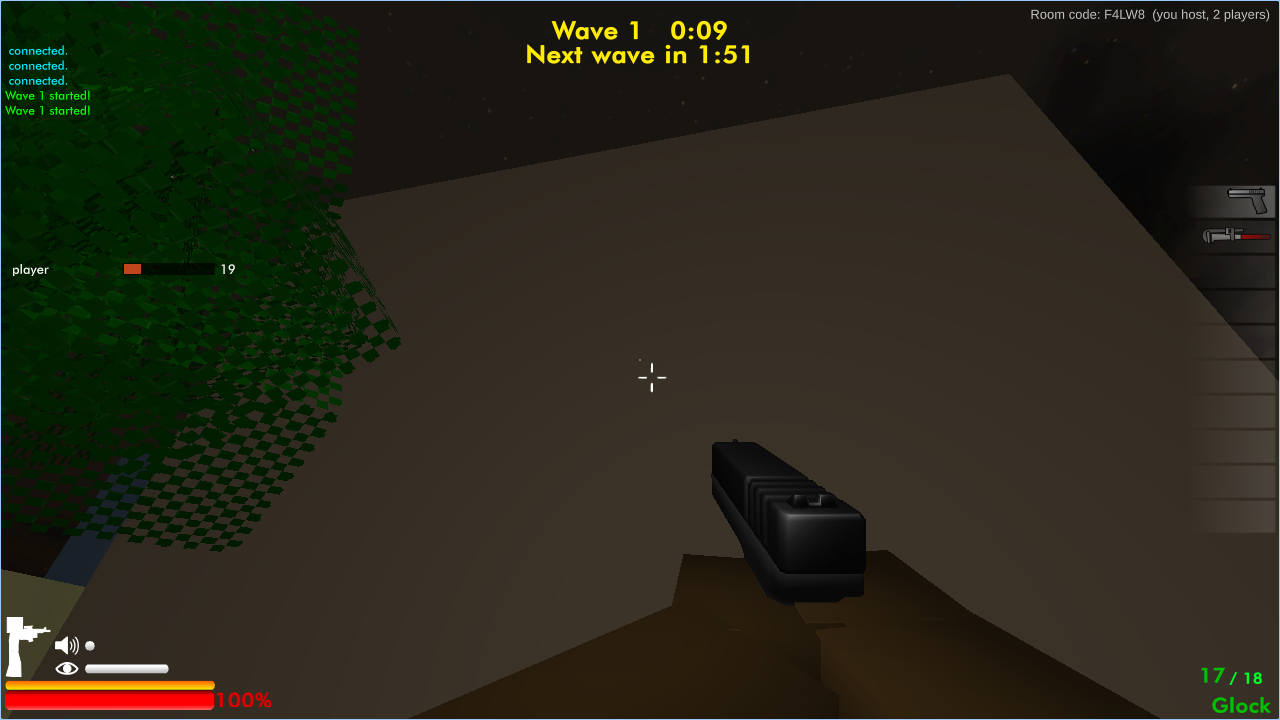
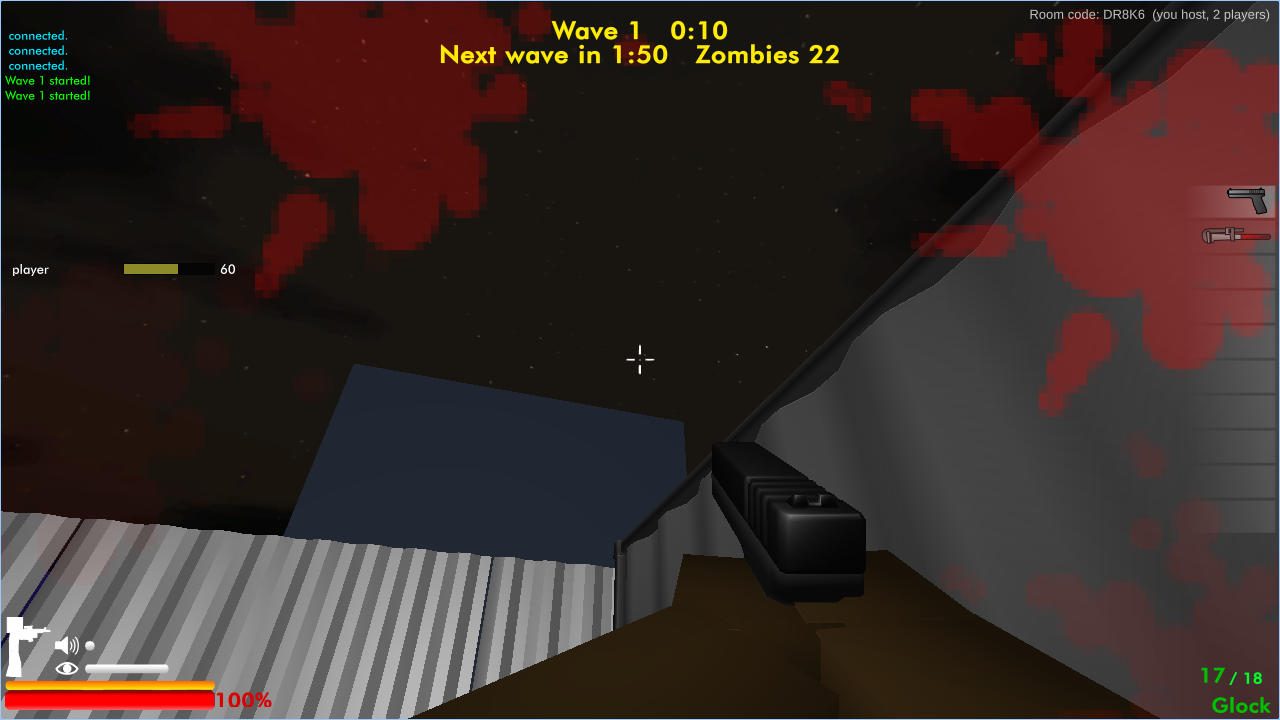
Timed waves: zombies pile up instead of being dropped (backlog), ceiling 300, fps guard
- Zombies over the alive cap wait in a host backlog (wave number per zombie) and spawn
  4/s with their own wave's stats when there is room; a wave is not cleared while
  zombies are queued. Classic unchanged (cap 50, rest dropped).
- Crash-guard ceiling 300 alive (measured host + client with fps.mjs), host frame rate
  guard: below 25 fps for 3 s pauses spawning above 50 alive, nothing lost.
- HUD "Zombies 64 (+20)" next to the wave timer (synczombies RPC).
- Relay host message budget 3000/s -> 15000/s (a relay-only client overran it at ~130
  zombies); outgoing frames also split at 400 messages.
- fps.mjs measures host + client fps and traffic; playtest.mjs backlog checks; docs.

diff --git a/server/src/room.js b/server/src/room.js
@@ -39,8 +39,10 @@ const MAX_FRAME = 65536;
 // body length of the compact state messages by kind (C_STATE: op, kind, view i64, payload)
 const STATE_LEN = { 1: 24, 2: 38, 3: 22 };
 const MAX_MSGS_PER_FRAME = 512;
-// per socket message budget (messages per second, burst = 2 s): the host sends hundreds a second at 20 Hz state, a client far fewer
-const MSG_RATE_HOST = 3000, MSG_RATE_CLIENT = 600;
+// per socket message budget (messages per second, burst = 2 s): the host sends about 20 a second per zombie alive at 20 Hz state when a client
+// has no WebRTC lane (300 zombies: ~6500/s, measured with server/test/e2e/fps.mjs ?p2p=0), a client far fewer. Frames (what the Durable Object
+// is billed for) stay at ~20-60 a second whatever the count: the messages are batched per game frame.
+const MSG_RATE_HOST = 15000, MSG_RATE_CLIENT = 600;
 const MAX_BUFFER_ENTRIES = 20000;
 const MAX_BUFFER_PER_SENDER = 8000;
 const MAX_BUFFER_BYTES = 4 * 1024 * 1024;

diff --git a/game/Assets/Scripts/Assembly-UnityScript/sc_matchcontroller.cs b/game/Assets/Scripts/Assembly-UnityScript/sc_matchcontroller.cs
@@ -108,6 +108,12 @@ public class sc_matchcontroller : MonoBehaviour
 
 	public Transform[] contructions;
 
+	// playtest feature (Timed waves): zombies of a wave that could not spawn yet (cap on zombies alive, or the frame rate guard), as the wave
+	// number each one belongs to, oldest first. Host only (the matchcontroller exists on the host alone). Classic never uses it.
+	public System.Collections.Generic.Queue<int> zbacklog = new System.Collections.Generic.Queue<int>();
+
+	public float zbacklogcont;
+
 	public sc_matchcontroller()
 	{
 		secstoincrease = 30;
@@ -376,6 +382,7 @@ public class sc_matchcontroller : MonoBehaviour
 
 	public void Start()
 	{
+		ZbMenu.GuardReset();
 		zspawnpoints = GameObject.FindGameObjectsWithTag("zombiespawn");
 		itemspawnpoints = GameObject.FindGameObjectsWithTag("itemspawn");
 		bagspawnpoints = GameObject.FindGameObjectsWithTag("bagspawn");
@@ -526,15 +533,21 @@ public class sc_matchcontroller : MonoBehaviour
 			// Timed waves (playtest feature, default; ZbMenu.TimedWaves()): the 120 s "long wave" timer of the original is armed for EVERY wave.
 			// The original arms it only if the previous wave was cleared (canlongwave) and disarms it after a timed-out wave. Classic = exactly that.
 			bool timedwaves = ZbMenu.TimedWaves();
+			if (timedwaves)
+			{
+				ZbMenu.GuardTick(Time.unscaledDeltaTime); // frame rate guard for zombie spawning (Timed waves only)
+			}
 			if (canlongwave || timedwaves)
 			{
 				longwaveconter += 1f * Time.deltaTime;
 			}
 			((sc_matchdata)(object)((Component)matchdata).GetComponent(typeof(sc_matchdata))).waveleft = timedwaves ? Mathf.Max(0, Mathf.CeilToInt(120f - longwaveconter)) : (-1);
 			zspawncont += 1f * Time.deltaTime;
-			if (zsinscene.Length <= 3 || !(longwaveconter <= 120f))
+			// Timed waves: a wave is only "cleared" when the backlog is empty too (zombies still queued count as zombies left)
+			int zleft = zsinscene.Length + (timedwaves ? zbacklog.Count : 0);
+			if (zleft <= 3 || !(longwaveconter <= 120f))
 			{
-				if (zsinscene.Length <= 3)
+				if (zleft <= 3)
 				{
 					canlongwave = true;
 				}
@@ -556,41 +569,50 @@ public class sc_matchcontroller : MonoBehaviour
 				}
 				int zcount = ZbMenu.WaveZombies(zminforwave + (wave - 1), ZbMenu.Players()); // Timed waves: scaled with the players in the match (Classic: unchanged)
 				int zcap = ZbMenu.ZombieCap(zsmax, ZbMenu.Players());
+				int zalive = zsinscene.Length;
 				for (num6 = 0; num6 < zcount; num6++)
 				{
-					if (zsinscene.Length < zcap)
+					if (zalive < zcap && (!timedwaves || (zbacklog.Count == 0 && !ZbMenu.SpawnBlocked(zalive))))
 					{
-						if (zspawnpoints.Length > 0)
-						{
-							num = Random.Range(0, zspawnpoints.Length);
-						}
-						num4 = zspawnpoints[num].transform.position.x + Random.Range(0f - zspawnpoints[num].transform.localScale.x / 2f, zspawnpoints[num].transform.localScale.x / 2f);
-						num5 = zspawnpoints[num].transform.position.z + Random.Range(0f - zspawnpoints[num].transform.localScale.z / 2f, zspawnpoints[num].transform.localScale.z / 2f);
-						val = (Transform)Network.Instantiate((Object)(object)zumbifab, new Vector3(num4, zspawnpoints[num].transform.position.y + 1.28f, num5), zumbifab.rotation, 5);
-						((Component)val).GetComponent<Rigidbody>().isKinematic = false;
-						((Behaviour)(sc_zumbionlinecontroller)(object)((Component)val).GetComponent(typeof(sc_zumbionlinecontroller))).enabled = false;
-						((Behaviour)(sc_zumbi)(object)((Component)val).GetComponent(typeof(sc_zumbi))).enabled = true;
-						((sc_zumbi)(object)((Component)val).GetComponent(typeof(sc_zumbi))).gamecontrol = gamecontrol;
-						((sc_zumbi)(object)((Component)val).GetComponent(typeof(sc_zumbi))).matchcontrol = ((Component)this).transform;
-						((sc_zumbi)(object)((Component)val).GetComponent(typeof(sc_zumbi))).headlife = ((sc_zumbi)(object)((Component)val).GetComponent(typeof(sc_zumbi))).headlife + (float)(4 * (wave - 1));
-						((sc_life)(object)((Component)val).GetComponent(typeof(sc_life))).quantia = ((sc_life)(object)((Component)val).GetComponent(typeof(sc_life))).quantia + (float)(10 * (wave - 1));
-						((sc_zumbi)(object)((Component)val).GetComponent(typeof(sc_zumbi))).dmgmin = ((sc_zumbi)(object)((Component)val).GetComponent(typeof(sc_zumbi))).dmgmin + 0.5f * (float)(wave - 1);
-						((sc_zumbi)(object)((Component)val).GetComponent(typeof(sc_zumbi))).dmgmax = ((sc_zumbi)(object)((Component)val).GetComponent(typeof(sc_zumbi))).dmgmax + 0.5f * (float)(wave - 1);
-						((sc_zumbi)(object)((Component)val).GetComponent(typeof(sc_zumbi))).walkspeed = ((sc_zumbi)(object)((Component)val).GetComponent(typeof(sc_zumbi))).walkspeed + 0.06f * (float)(wave - 1);
-						if (!(((sc_zumbi)(object)((Component)val).GetComponent(typeof(sc_zumbi))).walkspeed <= 6f))
-						{
-							((sc_zumbi)(object)((Component)val).GetComponent(typeof(sc_zumbi))).walkspeed = 6f;
-						}
-						num2 = Random.Range(0, backpackprobmax);
-						if (num2 < backpackprobmin)
-						{
-							((sc_zumbi)(object)((Component)val).GetComponent(typeof(sc_zumbi))).carryitem = true;
-						}
-						Network.Instantiate((Object)(object)terra, new Vector3(val.position.x, val.position.y - 1.75f, val.position.z), val.rotation, 4);
-						zspawncont = 0f;
-						zsinscene = GameObject.FindGameObjectsWithTag("zumbi");
+						spawnzombie(wave);
+						zalive++;
+					}
+					else if (timedwaves)
+					{
+						zbacklog.Enqueue(wave); // Timed waves: never dropped, spawns later with this wave's stats (Classic: dropped, as the original)
 					}
 				}
+				zsinscene = GameObject.FindGameObjectsWithTag("zumbi");
+			}
+			// Timed waves: the backlog spawns ZBACKLOG_RATE zombies per second while there is room under the cap and the host's frame rate guard allows it
+			if (timedwaves && zbacklog.Count > 0)
+			{
+				zbacklogcont += Time.deltaTime * ZbMenu.ZBACKLOG_RATE;
+				int zcap2 = ZbMenu.ZombieCap(zsmax, ZbMenu.Players());
+				int zalive2 = zsinscene.Length;
+				bool spawned = false;
+				while (zbacklogcont >= 1f && zbacklog.Count > 0 && zalive2 < zcap2 && !ZbMenu.SpawnBlocked(zalive2))
+				{
+					zbacklogcont -= 1f;
+					spawnzombie(zbacklog.Dequeue());
+					zalive2++;
+					spawned = true;
+				}
+				if (zbacklogcont > 1f) zbacklogcont = 1f; // no burst after a pause
+				if (spawned) zsinscene = GameObject.FindGameObjectsWithTag("zumbi");
+			}
+			else
+			{
+				zbacklogcont = 0f;
+			}
+			if (timedwaves)
+			{
+				((sc_matchdata)(object)((Component)matchdata).GetComponent(typeof(sc_matchdata))).zalive = zsinscene.Length;
+				((sc_matchdata)(object)((Component)matchdata).GetComponent(typeof(sc_matchdata))).zqueued = zbacklog.Count;
+			}
+			else
+			{
+				((sc_matchdata)(object)((Component)matchdata).GetComponent(typeof(sc_matchdata))).zqueued = -1;
 			}
 			if (!gameended)
 			{
@@ -658,6 +680,45 @@ public class sc_matchcontroller : MonoBehaviour
 		((sc_matchdata)(object)((Component)matchdata).GetComponent(typeof(sc_matchdata))).minutes = minute;
 		((sc_matchdata)(object)((Component)matchdata).GetComponent(typeof(sc_matchdata))).seconds = second;
 		((sc_matchdata)(object)((Component)matchdata).GetComponent(typeof(sc_matchdata))).isstarted = gamestarted;
+	}
+
+	// One zombie at a random zombie spawn point with the stats of wave `zwave` (the original's per-wave hp / damage / speed). Timed waves call it
+	// later for backlog zombies with the wave they belonged to; the body is the original's wave-start spawn code unchanged.
+	public void spawnzombie(int zwave)
+	{
+		int num = 0;
+		int num2 = 0;
+		float num4 = 0f;
+		float num5 = 0f;
+		Transform val = null;
+		if (zspawnpoints.Length > 0)
+		{
+			num = Random.Range(0, zspawnpoints.Length);
+		}
+		num4 = zspawnpoints[num].transform.position.x + Random.Range(0f - zspawnpoints[num].transform.localScale.x / 2f, zspawnpoints[num].transform.localScale.x / 2f);
+		num5 = zspawnpoints[num].transform.position.z + Random.Range(0f - zspawnpoints[num].transform.localScale.z / 2f, zspawnpoints[num].transform.localScale.z / 2f);
+		val = (Transform)Network.Instantiate((Object)(object)zumbifab, new Vector3(num4, zspawnpoints[num].transform.position.y + 1.28f, num5), zumbifab.rotation, 5);
+		((Component)val).GetComponent<Rigidbody>().isKinematic = false;
+		((Behaviour)(sc_zumbionlinecontroller)(object)((Component)val).GetComponent(typeof(sc_zumbionlinecontroller))).enabled = false;
+		((Behaviour)(sc_zumbi)(object)((Component)val).GetComponent(typeof(sc_zumbi))).enabled = true;
+		((sc_zumbi)(object)((Component)val).GetComponent(typeof(sc_zumbi))).gamecontrol = gamecontrol;
+		((sc_zumbi)(object)((Component)val).GetComponent(typeof(sc_zumbi))).matchcontrol = ((Component)this).transform;
+		((sc_zumbi)(object)((Component)val).GetComponent(typeof(sc_zumbi))).headlife = ((sc_zumbi)(object)((Component)val).GetComponent(typeof(sc_zumbi))).headlife + (float)(4 * (zwave - 1));
+		((sc_life)(object)((Component)val).GetComponent(typeof(sc_life))).quantia = ((sc_life)(object)((Component)val).GetComponent(typeof(sc_life))).quantia + (float)(10 * (zwave - 1));
+		((sc_zumbi)(object)((Component)val).GetComponent(typeof(sc_zumbi))).dmgmin = ((sc_zumbi)(object)((Component)val).GetComponent(typeof(sc_zumbi))).dmgmin + 0.5f * (float)(zwave - 1);
+		((sc_zumbi)(object)((Component)val).GetComponent(typeof(sc_zumbi))).dmgmax = ((sc_zumbi)(object)((Component)val).GetComponent(typeof(sc_zumbi))).dmgmax + 0.5f * (float)(zwave - 1);
+		((sc_zumbi)(object)((Component)val).GetComponent(typeof(sc_zumbi))).walkspeed = ((sc_zumbi)(object)((Component)val).GetComponent(typeof(sc_zumbi))).walkspeed + 0.06f * (float)(zwave - 1);
+		if (!(((sc_zumbi)(object)((Component)val).GetComponent(typeof(sc_zumbi))).walkspeed <= 6f))
+		{
+			((sc_zumbi)(object)((Component)val).GetComponent(typeof(sc_zumbi))).walkspeed = 6f;
+		}
+		num2 = Random.Range(0, backpackprobmax);
+		if (num2 < backpackprobmin)
+		{
+			((sc_zumbi)(object)((Component)val).GetComponent(typeof(sc_zumbi))).carryitem = true;
+		}
+		Network.Instantiate((Object)(object)terra, new Vector3(val.position.x, val.position.y - 1.75f, val.position.z), val.rotation, 4);
+		zspawncont = 0f;
 	}
 
 	public void Main()

diff --git a/game/Assets/Scripts/ZbNet.cs b/game/Assets/Scripts/ZbNet.cs
@@ -634,16 +634,16 @@ public static partial class ZbNet
     {
         FlushFast();
         if (outLen == 0 || ZbWs.State() != 2) return;
-        // chunk on message boundaries so one frame stays well under the relay's 64 KB limit
+        // chunk on message boundaries so one frame stays well under the relay's 64 KB and 512 messages limits (hundreds of zombies alive)
         int o = 0;
         while (o < outLen)
         {
-            int start = o;
+            int start = o, n = 0;
             while (o + 2 <= outLen)
             {
                 int len = outBuf[o] | (outBuf[o + 1] << 8);
-                if (o - start + 2 + len > 60000 && o > start) break;
-                o += 2 + len;
+                if ((o - start + 2 + len > 60000 || n >= 400) && o > start) break;
+                o += 2 + len; n++;
             }
             var chunk = new byte[o - start];
             Buffer.BlockCopy(outBuf, start, chunk, 0, chunk.Length);
@@ -1197,6 +1197,11 @@ public class NetRunner : MonoBehaviour
             foreach (var z in zs) if (z.state != -1) nd = Mathf.Min(nd, Vector3.Distance(z.transform.position, p.transform.position));
             if (nd < float.MaxValue) sb.Append(",\"zdist\":").Append(Mathf.Round(nd * 10f) / 10f);
         }
+        { // zombies by life (rounded), e.g. {"100":15,"110":16}: a zombie's life is the wave's (base + 10 per wave), so this shows the waves present
+            var hist = new System.Collections.Generic.SortedDictionary<int, int>();
+            foreach (var z in zs) { var lf = z.GetComponent<sc_life>(); if (lf != null && z.state != -1) { int k = Mathf.RoundToInt(lf.quantia); hist[k] = (hist.TryGetValue(k, out var c) ? c : 0) + 1; } }
+            sb.Append(",\"zhist\":{"); bool hf = true; foreach (var kv in hist) { sb.Append(hf ? "" : ",").Append("\"").Append(kv.Key).Append("\":").Append(kv.Value); hf = false; } sb.Append("}");
+        }
         if (minLife < float.MaxValue) sb.Append(",\"zlifeMin\":").Append(Mathf.Round(minLife)).Append(",\"zlifeMax\":").Append(Mathf.Round(maxLife));
         var md = FindFirstObjectByType<sc_matchdata>();
         sb.Append(",\"killed\":").Append(md != null ? md.zombieskilled : -1);
@@ -1209,6 +1214,12 @@ public class NetRunner : MonoBehaviour
         foreach (var p in players) { var nv = p.GetComponent<NetworkView>(); var lf = p.GetComponent<sc_life>(); if (nv != null && nv.isMine && lf != null) sb.Append(",\"hp\":").Append(Mathf.Round(lf.quantia)); }
         foreach (var p in players) { var nv = p.GetComponent<NetworkView>(); if (nv != null && nv.isMine && p.quant != null) sb.Append(",\"quant\":[").Append(string.Join(",", p.quant)).Append("],\"ammo\":[").Append(string.Join(",", p.ammo)).Append("],\"sel\":").Append(p.itemselected).Append(",\"lifes\":").Append(p.lifes); }
         { int k = -1; foreach (var sp in FindObjectsByType<sc_spawner>(FindObjectsSortMode.None)) { var snv = sp.GetComponent<NetworkView>(); if (snv != null && snv.isMine) k = sp.kills; } sb.Append(",\"kills\":").Append(k); }
+        if (mc != null) { // Timed waves backlog: queued zombies and the wave each belongs to (oldest first, at most 40 listed), cap, frame rate guard
+            sb.Append(",\"queued\":").Append(mc.zbacklog.Count).Append(",\"qwaves\":[");
+            int qi = 0; foreach (var qw in mc.zbacklog) { if (qi >= 40) break; sb.Append(qi > 0 ? "," : "").Append(qw); qi++; }
+            sb.Append("],\"zcap\":").Append(ZbMenu.ZombieCap(mc.zsmax, ZbMenu.Players())).Append(",\"guard\":").Append(ZbMenu.guardPaused ? 1 : 0).Append(",\"gfps\":").Append(Mathf.Round(ZbMenu.guardFps));
+        }
+        if (md != null) sb.Append(",\"mdalive\":").Append(md.zalive).Append(",\"mdqueued\":").Append(md.zqueued);
         if (mc != null) sb.Append(",\"started\":").Append(mc.gamestarted ? 1 : 0).Append(",\"min\":").Append(mc.minute).Append(",\"sec\":").Append(mc.second);
         sb.Append(",\"carry\":").Append(ZbCarry.Json());
         sb.Append("}");
@@ -1259,7 +1270,10 @@ public class NetRunner : MonoBehaviour
     // DebugGrab("grenadeground") picks up the nearest ground item whose name contains the text, like pressing E on it.
     public void DebugLoot(string a) { ZbMenu.MoreLoot(); ZbMenu.moreLoot = a != "classic"; }
     // DebugZmax("200") lifts the zombie cap of the running match (performance measurement only)
-    public void DebugZmax(string a) { var mc = FindFirstObjectByType<sc_matchcontroller>(); if (mc != null) mc.zsmax = int.Parse(a); }
+    // (Timed waves: the crash guard ceiling ZbMenu.zombieCeiling; Classic: the original zsmax). DebugZGuard("-1"|"0"|"1"): frame rate guard automatic /
+    // never pause / always pause (ZbMenu.guardForce).
+    public void DebugZmax(string a) { var mc = FindFirstObjectByType<sc_matchcontroller>(); if (mc != null) mc.zsmax = int.Parse(a); ZbMenu.zombieCeiling = int.Parse(a); }
+    public void DebugZGuard(string a) { ZbMenu.guardForce = int.Parse(a); if (ZbMenu.guardForce < 0) ZbMenu.guardPaused = false; }
     public void DebugLootNow(string a)
     {
         var mc = FindFirstObjectByType<sc_matchcontroller>(); if (mc == null) return;

diff --git a/game/Assets/Scripts/ZbMenu.cs b/game/Assets/Scripts/ZbMenu.cs
@@ -412,14 +412,41 @@ public static class ZbMenu
         }
     }
 
-    // Zombies per wave in Timed waves: (zminforwave + wave - 1) * (1 + 0.5 * (players - 1)), i.e. 1 player x1, 2 x1.5, 3 x2, 4 x2.5; the cap on zombies
-    // alive (original 50) grows by the same factor but never beyond ZOMBIE_CEILING. Per-zombie stats stay the original's. Classic: unchanged.
-    public const int ZOMBIE_CEILING = 80;
+    // Zombies per wave in Timed waves: (zminforwave + wave - 1) * (1 + 0.5 * (players - 1)), i.e. 1 player x1, 2 x1.5, 3 x2, 4 x2.5. Per-zombie stats
+    // stay the original's. Nothing is dropped: zombies that cannot spawn now (cap on zombies alive, or the frame rate guard) wait in the host's
+    // backlog (sc_matchcontroller.zbacklog, with their wave number) and spawn ZBACKLOG_RATE per second as soon as there is room. The cap on zombies
+    // alive is only a crash guard: zombieCeiling (ZOMBIE_CEILING, measured with server/test/e2e/fps.mjs, see docs/MULTIPLAYER.md). Classic: the
+    // original's 50 alive, the rest of a wave is dropped, no backlog.
+    public const int ZOMBIE_CEILING = 300;
+    public static int zombieCeiling = ZOMBIE_CEILING;     // DebugZmax overrides it (tests / measurements)
+    public const float ZBACKLOG_RATE = 4f;                // backlog zombies per second
     // human players connected to this match (the host's own `spawners` counter is one too high: the host's spawner is added twice)
     public static int Players() { return ZbNet.Connected ? ZbNet.remoteCount + 1 : 1; }
     public static float WaveFactor(int players) { return 1f + 0.5f * (Mathf.Max(1, players) - 1); }
     public static int WaveZombies(int basecount, int players) { return TimedWaves() ? Mathf.RoundToInt(basecount * WaveFactor(players)) : basecount; }
-    public static int ZombieCap(int orig, int players) { return TimedWaves() ? Mathf.Max(orig, Mathf.Min(ZOMBIE_CEILING, Mathf.RoundToInt(orig * WaveFactor(players)))) : orig; }
+    public static int ZombieCap(int orig, int players) { return TimedWaves() ? Mathf.Max(1, zombieCeiling) : orig; }
+
+    // Frame rate guard (Timed waves, host): when the host's frame rate stays below GUARD_LOW_FPS for GUARD_LOW_S seconds, no more zombies spawn
+    // (wave starts queue their zombies, the backlog waits) until it is back at GUARD_RESUME_FPS or more for GUARD_RESUME_S seconds. Nothing is lost.
+    public const float GUARD_LOW_FPS = 25f, GUARD_LOW_S = 3f, GUARD_RESUME_FPS = 30f, GUARD_RESUME_S = 2f;
+    public static bool guardPaused;
+    // the guard never holds back zombies while fewer than GUARD_MIN_ALIVE are alive (the original's 50): a slow PC still gets the original game
+    public const int GUARD_MIN_ALIVE = 50;
+    public static bool SpawnBlocked(int alive) { return guardPaused && alive >= GUARD_MIN_ALIVE; }
+    public static void GuardReset() { guardPaused = false; guardFps = 60f; guardLow = guardHigh = 0f; }
+    public static int guardForce = -1;                    // test hook DebugZGuard: -1 automatic, 0 never pause, 1 always pause
+    public static float guardFps = 60f;
+    static float guardLow, guardHigh;
+    public static void GuardTick(float dt)
+    {
+        if (dt > 0f)
+        {
+            guardFps += (Mathf.Min(1f / dt, 240f) - guardFps) * Mathf.Min(1f, dt * 2f); // about half a second of smoothing
+            if (!guardPaused) { guardLow = guardFps < GUARD_LOW_FPS ? guardLow + dt : 0f; if (guardLow >= GUARD_LOW_S) { guardPaused = true; guardHigh = 0f; Debug.Log("[zbguard] host fps " + Mathf.Round(guardFps) + ": zombie spawning paused"); } }
+            else { guardHigh = guardFps >= GUARD_RESUME_FPS ? guardHigh + dt : 0f; if (guardHigh >= GUARD_RESUME_S) { guardPaused = false; guardLow = 0f; Debug.Log("[zbguard] host fps " + Mathf.Round(guardFps) + ": zombie spawning resumed"); } }
+        }
+        if (guardForce >= 0) guardPaused = guardForce == 1;
+    }
 
     // ---- loot: More (default) / Classic (playtest feature) ---------------------------------------------------------------------------------
     // Classic: the original matchcontroller values, never touched (itemspawnrate 0.05 = one item / 20 s, ismax 20, 30 % real items, 2 % zombie backpacks).

diff --git a/game/Assets/Scripts/Assembly-UnityScript/sc_matchdata.cs b/game/Assets/Scripts/Assembly-UnityScript/sc_matchdata.cs
@@ -57,6 +57,11 @@ public class sc_matchdata : MonoBehaviour
 	// playtest features (not in v0.7): seconds until the next wave starts by itself (-1 = classic waves, no timer); set by the host, synced to everybody
 	public int waveleft = -1;
 
+	// playtest feature (Timed waves): zombies alive and queued in the host's backlog (HUD "Zombies 64 (+20)"); zqueued -1 = Classic / unknown
+	public int zalive;
+
+	public int zqueued = -1;
+
 	public sc_matchdata()
 	{
 		sendrate = 2f;
@@ -113,6 +118,10 @@ public class sc_matchdata : MonoBehaviour
 			{
 				((Component)this).NetView().RPC("sendstuff", (RPCMode)1, new object[5] { minutes, seconds, zombieskilled, isstarted, isended });
 				((Component)this).NetView().RPC("syncwavetimer", (RPCMode)1, new object[1] { waveleft });
+				if (zqueued >= 0)
+				{
+					((Component)this).NetView().RPC("synczombies", (RPCMode)1, new object[2] { zalive, zqueued });
+				}
 				dataconter -= 1000f;
 			}
 		}
@@ -160,7 +169,7 @@ public class sc_matchdata : MonoBehaviour
 		if (isstarted && waveleft > 0)
 		{
 			int wl = waveleft;
-			GUI.Label(new Rect((float)(Screen.width / 2 - 200), 34f, 400f, 40f), "Next wave in " + (wl / 60) + ":" + ((wl % 60 >= 10) ? (string.Empty + wl % 60) : ("0" + wl % 60)));
+			GUI.Label(new Rect((float)(Screen.width / 2 - 320), 34f, 640f, 40f), "Next wave in " + (wl / 60) + ":" + ((wl % 60 >= 10) ? (string.Empty + wl % 60) : ("0" + wl % 60)) + (zqueued >= 0 ? "   Zombies " + zalive + (zqueued > 0 ? " (+" + zqueued + ")" : string.Empty) : string.Empty));
 		}
 		GUI.skin = chatskin;
 		GUI.color = Color.white;
@@ -190,6 +199,13 @@ public class sc_matchdata : MonoBehaviour
 	public void syncwavetimer(int left)
 	{
 		waveleft = left;
+	}
+
+	[RPC]
+	public void synczombies(int alive, int queued)
+	{
+		zalive = alive;
+		zqueued = queued;
 	}
 
 	// playtest feature: every player sends its own health (the owner knows it best); ZbTeam shows it

diff --git a/docs/MULTIPLAYER.md b/docs/MULTIPLAYER.md
@@ -264,7 +264,7 @@ Everything here sits around the game: `game/Assets/Scripts/ZbMenu.cs` (new file)
 Design: `docs/design/PHASE3-4-MATCHMAKING-RESILIENCE.md`. What shipped and how it differs from the design is listed here.
 
 ### Limits (step 1)
-Per IP and per minute, all in memory or in the Lobby DO (nothing paid): `/api/rooms|room|quickplay` 240 (counted in the Worker isolate, so a refused request costs no Durable Object call), `/api/ping` 600 (an open server list probes up to 8 rows twice per 10 s, about 100 a minute per player), new rooms 20/min and 200/hour, first joins 90/min, rejoins 180/min (a Wi-Fi blip makes a whole NAT retry at once, so rejoins have their own bucket). A refused WebSocket upgrade is answered with a normal socket that carries `REJECT(6)` and closes (a browser cannot read the status of a failed upgrade); the client retries a resume that gets 6. Per socket: the byte bucket of before plus a message count bucket (host 3000/s, clients 600/s, burst 2 s; over budget the message is skipped, 100 in a row close the socket). Frame 64 KB, message 8 KB, 512 messages per frame, buffer caps unchanged. Not done: the RPC / INST content validators in shadow mode.
+Per IP and per minute, all in memory or in the Lobby DO (nothing paid): `/api/rooms|room|quickplay` 240 (counted in the Worker isolate, so a refused request costs no Durable Object call), `/api/ping` 600 (an open server list probes up to 8 rows twice per 10 s, about 100 a minute per player), new rooms 20/min and 200/hour, first joins 90/min, rejoins 180/min (a Wi-Fi blip makes a whole NAT retry at once, so rejoins have their own bucket). A refused WebSocket upgrade is answered with a normal socket that carries `REJECT(6)` and closes (a browser cannot read the status of a failed upgrade); the client retries a resume that gets 6. Per socket: the byte bucket of before plus a message count bucket (host 15000/s, was 3000/s until the zombie backlog (hundreds of zombies at 20 messages/s each over the relay), clients 600/s, burst 2 s; over budget the message is skipped, 100 in a row close the socket). Frame 64 KB, message 8 KB, 512 messages per frame, buffer caps unchanged. Not done: the RPC / INST content validators in shadow mode.
 
 ### Desktop-only gate (step 2)
 The page template checks the user agent (Android / iPhone / iPad / Mobile ...), iPadOS (Mac user agent with touch points), `userAgentData.mobile` and `(pointer: coarse)` without any fine pointer; on a match it shows the message and never starts the 100 MB download. A narrow desktop window is not gated. `?desktop=1` skips the check. Test: `server/test/e2e/mobile.mjs` (iPhone, Android phone, iPad, Android tablet, invite link, narrow desktop, `?desktop=1`).
@@ -301,7 +301,25 @@ The page template checks the user agent (Android / iPhone / iPad / Mobile ...), 
 * **Timed waves** (default, host option on the create-server screen in place of the ignored NAT toggle; Quick Play always Timed): `sc_matchcontroller` arms its 120 s "long wave" timer for every wave. The original starts the next wave when 3 or fewer zombies are left or after 120 s, but only arms the timer if the previous wave was cleared, so after one timed-out wave only killing works again. 120 s is the original's own constant (there is no per-wave timing data); the "all dead" threshold stays the original's 3. Classic keeps the original code path exactly. The host writes `matchdata.waveleft`, sent twice a second as the RPC `syncwavetimer` (so late joiners and resumed players have it within half a second).
 * **HUD**: `sc_matchdata.OnGUI` draws "Wave N   m:ss" and "Next wave in m:ss" in the original style and font.
 * **Teammates' health** (`ZbTeam.cs`): every player sends its own life (0-100) twice a second (`synchealth`, unbuffered); the roster is the players' spawner objects. A list (name, bar, number) at the left edge and a small bar + name above teammates' heads when on screen; "down" when the avatar is gone, removed when the player leaves. Health from a player that never reported falls back to the local copy of its `sc_life`.
-* **Zombies per wave scale with the players** (Timed waves only; Classic unchanged): zombies spawned = round((15 + wave - 1) x (1 + 0.5 x (players - 1))), and the cap on zombies alive (original 50) grows by the same factor up to a hard ceiling of 80. Per-zombie hp / damage / speed per wave stay the original's. "Players" = humans connected to the match (`ZbNet.remoteCount + 1`; the matchcontroller's own `spawners` counter counts the host twice). Wave 1: 1 player 15, 2 players 22-23, 3 players 30, 4 players 38 (cap 50 / 75 / 80 / 80 alive). Ceiling check (`server/test/e2e/fps.mjs`, one headless Chrome with GPU as host, cap lifted by a test hook, zombies standing around): 60 fps at 31, 48, 66, 85 and 105 zombies alive, so the ceiling is not a limit on this machine; 80 is kept as a conservative value for weaker PCs, the clients also have to render and interpolate every zombie.
+* **Zombies per wave scale with the players** (Timed waves only; Classic unchanged): zombies spawned = round((15 + wave - 1) x (1 + 0.5 x (players - 1))). Per-zombie hp / damage / speed per wave stay the original's. "Players" = humans connected to the match (`ZbNet.remoteCount + 1`; the matchcontroller's own `spawners` counter counts the host twice). Wave 1: 1 player 15, 2 players 22-23, 3 players 30, 4 players 38.
+* **Zombie backlog, no "max alive" drop** (Timed waves only): the original spawns a wave's zombies only while fewer than 50 are alive and silently drops the rest. Timed never drops one: what cannot spawn now goes into the host's backlog (`sc_matchcontroller.zbacklog`, the wave number of each zombie, oldest first) and spawns 4 per second (`ZbMenu.ZBACKLOG_RATE`, random zombie spawn point each) as soon as there is room, with the stats of the wave it belongs to (`spawnzombie(wave)`, the original spawn code). The backlog carries over into the next waves; a new wave's zombies queue behind it. A wave only counts as cleared (the original's "3 or fewer left") when alive + queued <= 3; the 120 s timer runs as before. Lost like the zombies alive when the host leaves (level B+).
+  * **Crash-guard ceiling** `ZbMenu.ZOMBIE_CEILING` = **300** alive (was 80), the same for any player count. **Frame rate guard** (host): when the host's smoothed fps stays below 25 for 3 s, no more zombies spawn (wave starts queue theirs too) until it is back at 30+ for 2 s; nothing is lost. The guard never holds back zombies while fewer than 50 (the original cap) are alive, so a slow PC still gets at least the original game. The guard sees only the host's fps; the ceiling covers the clients.
+  * **HUD** (Timed): "Next wave in 1:23   Zombies 64 (+20)" = alive (+ queued). The host sends both twice a second with the wave timer (RPC `synczombies`, unbuffered).
+  * **Measured** (`server/test/e2e/fps.mjs`: host A and client B, each its own headless Chrome with GPU on one MacBook (so they share the GPU / CPU, pessimistic), ceiling lifted with `DebugZmax`, guard off, players healed, zombies crowd around them; fps averaged over 6 s, traffic over the same window):
+
+| zombies alive | host fps | client fps (WebRTC lane) | client fps (relay only, `?p2p=0`) | host state stream to one client | host messages/s over the relay (`?p2p=0`) | WebSocket frames/s to the DO (A + B) |
+|---|---|---|---|---|---|---|
+| 72 | 60 | 60 | - | 42 KB/s | - | 40 |
+| 127 | 60 | 60 | 60 | 74-78 KB/s | 2850-2960 | 44 (lane) / 68-70 (relay) |
+| 157 | 60 | 60 | 60 | 92-94 KB/s | 3585 | 47-50 / 72 |
+| 222-256 | 55-60 | 58-59 | 45-60 | 130-180 KB/s | 5100-6100 | 58-59 / 76-77 |
+| 292-330 | 46-52 | 38-49 | 28-55 | 175-210 KB/s | 7800-8100 | 56-57 / 75-81 |
+| 409 | 34-38 | 34 | 22 | 185-205 KB/s | 7900 | 47 / 79 |
+| 540 | 27 | - | 15 | 355 KB/s | 13900 | 70 |
+| 634 | 22 | - | 12 | 365 KB/s | 14300 | 55 |
+
+  * About 0.6 KB/s and 20 messages/s per zombie alive per client (20 Hz compact state). Runs vary by +-10 fps (how many zombies are on screen). 300 is the highest count at which host and client both stayed around 30 fps or more here, so it is the ceiling; the frame rate guard handles weaker hosts.
+  * **Free plan**: Workers / Durable Objects bill requests (incoming WebSocket messages at 20:1) and duration, not bytes. The relay batches messages per game frame (one WebSocket frame per recipient per frame), so the frames the DO receives stay at ~40-80 a second whatever the zombie count (see the last column); the bytes grow (~0.6 KB/s per zombie per client, only for clients without the WebRTC lane, which carries the state directly from the host's browser). The relay's per-socket message budget for the host was 3000/s, which a relay-only client overran at ~130 zombies (the host was kicked); it is now 15000/s (`MSG_RATE_HOST`, room.js), and the game splits its outgoing frames at 400 messages too (the relay reads at most 512 per frame). The host byte bucket (1 MB/s) is not reached (~210 KB/s at 330).
 * **Loot: More / Classic** (host room option on the create-server screen, default More, Quick Play always More; the prefab values are never edited, More is a runtime override on the host): Classic = original (one item / 20 s, cap 20 items, 30 % real items / 70 % ammo crates, 2 % of zombies carry a backpack). More scales with the players in the match, recomputed every frame:
 
 | players | item interval | item cap on the map |
@@ -313,7 +331,7 @@ The page template checks the user agent (Android / iPhone / iPad / Mobile ...), 
 | 5+ | 4 s | 80 (max) |
 
   Real-item share 50 %, zombie backpack 10 %, and grenades (`grenadeground`, `stickgrenadeground`, weight 20 each of 170) join the random item list; they are ordinary `sc_canbetaken` ground items (same pickup as every other item, `grabitem` -> `receiveitem`) and are in the network prefab table, so clients see them.
-* Tests: `server/test/e2e/playtest.mjs` (timer advance with zombies left, timer re-armed, Classic unchanged, HUD wave value, teammates' health live / dead / leave, zombie scaling 1 vs 2 players vs Classic, loot numbers for 1 / 2 players and Classic, grenade spawns and is picked up).
+* Tests: `server/test/e2e/playtest.mjs` (timer advance with zombies left, timer re-armed, Classic unchanged, HUD wave value, teammates' health live / dead / leave, zombie scaling 1 vs 2 players vs Classic, zombie backlog: queued with their wave at a lowered cap, nothing lost, spawns gradually when there is room, each with its wave's life, a wave with queued zombies is not cleared, the frame rate guard holds the backlog at 50 alive and releases it, client HUD numbers, Classic cap 50 and no backlog; loot numbers for 1 / 2 players and Classic, grenade spawns and is picked up). Test hooks: `DebugZmax(n)` (ceiling), `DebugZGuard(-1|0|1)` (guard automatic / off / forced), DebugDump `queued`, `qwaves`, `zcap`, `guard`, `zhist` (zombies by life), `mdalive` / `mdqueued`.
 
 ## Relay details (server/src)
 

diff --git a/docs/ROADMAP.md b/docs/ROADMAP.md
@@ -47,7 +47,8 @@ Make online play feel smooth without changing the network architecture.
 - [x] **Wave number on the HUD** next to the match time ("Wave 3   1:24") and "Next wave in 1:50" below it.
 - [x] **Teammates' health**: name + health bar list at the left edge and a small bar above teammates' heads; each player sends its own health, "down" for dead players, removed when they leave.
 - [x] **More loot**: host option "Loot: More / Classic" (default More): item interval 10 / 7 / 5 / 4 s and cap 40 / 50 / 60 / 70-80 by player count, 50 % real items, 10 % zombie backpacks, grenades in the random map loot. Classic = original numbers.
-- [x] **Zombies per wave scale with the players** (Timed only): x1 / x1.5 / x2 / x2.5 for 1-4 players, cap on zombies alive up to 80 (60 fps measured at 105 in headless Chrome).
+- [x] **Zombies per wave scale with the players** (Timed only): x1 / x1.5 / x2 / x2.5 for 1-4 players.
+- [x] **Zombies pile up, nothing dropped** (Timed only, after playtests): zombies over the alive cap wait in a host backlog and spawn 4/s with their own wave's stats when there is room; HUD "Zombies 64 (+20)"; crash-guard ceiling 300 alive (host + client ~30+ fps measured, docs/MULTIPLAYER.md table) and a host frame rate guard (below 25 fps for 3 s: spawning pauses above 50 alive). Relay host message budget raised to 15000/s for relay-only clients. Classic keeps the original 50 and drops the rest.
 
 ## Phase 5 — Community
 - [x] **Leaderboards** (Cloudflare D1, see docs/LEADERBOARD.md): best wave and most kills, Solo / Team, today (UTC) and all time; main menu > Leaderboard, a panel on the web page, the rank on the end-of-match screen. Multiplayer is recorded by the relay, single player with a signed start token + plausibility checks; default rules only.
